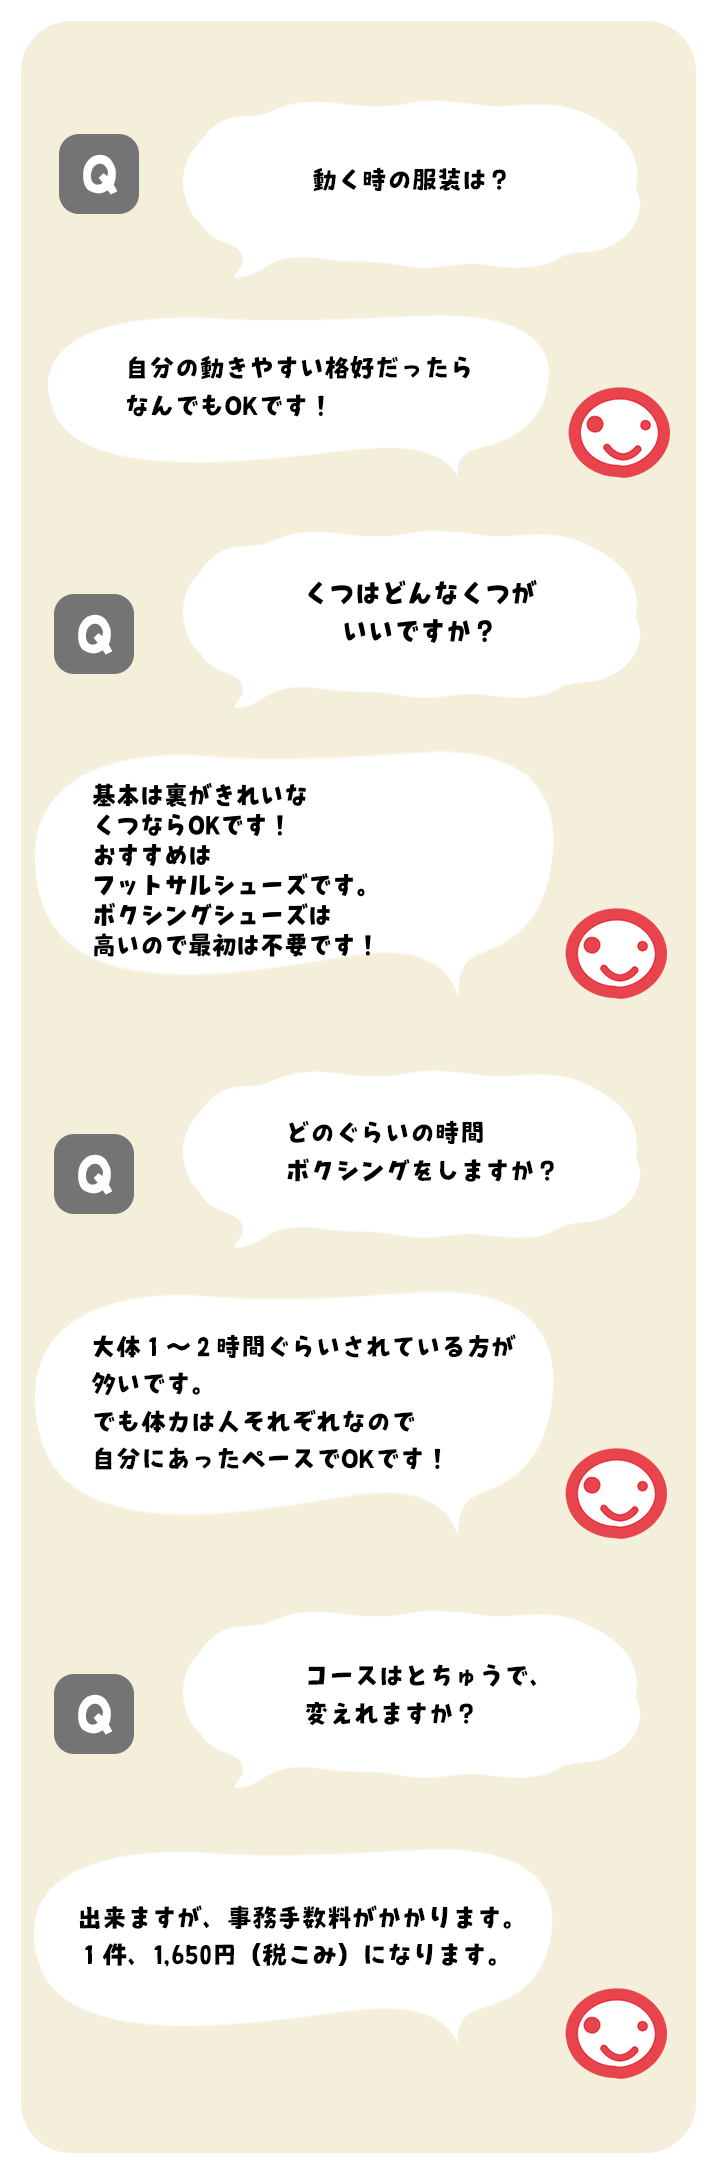
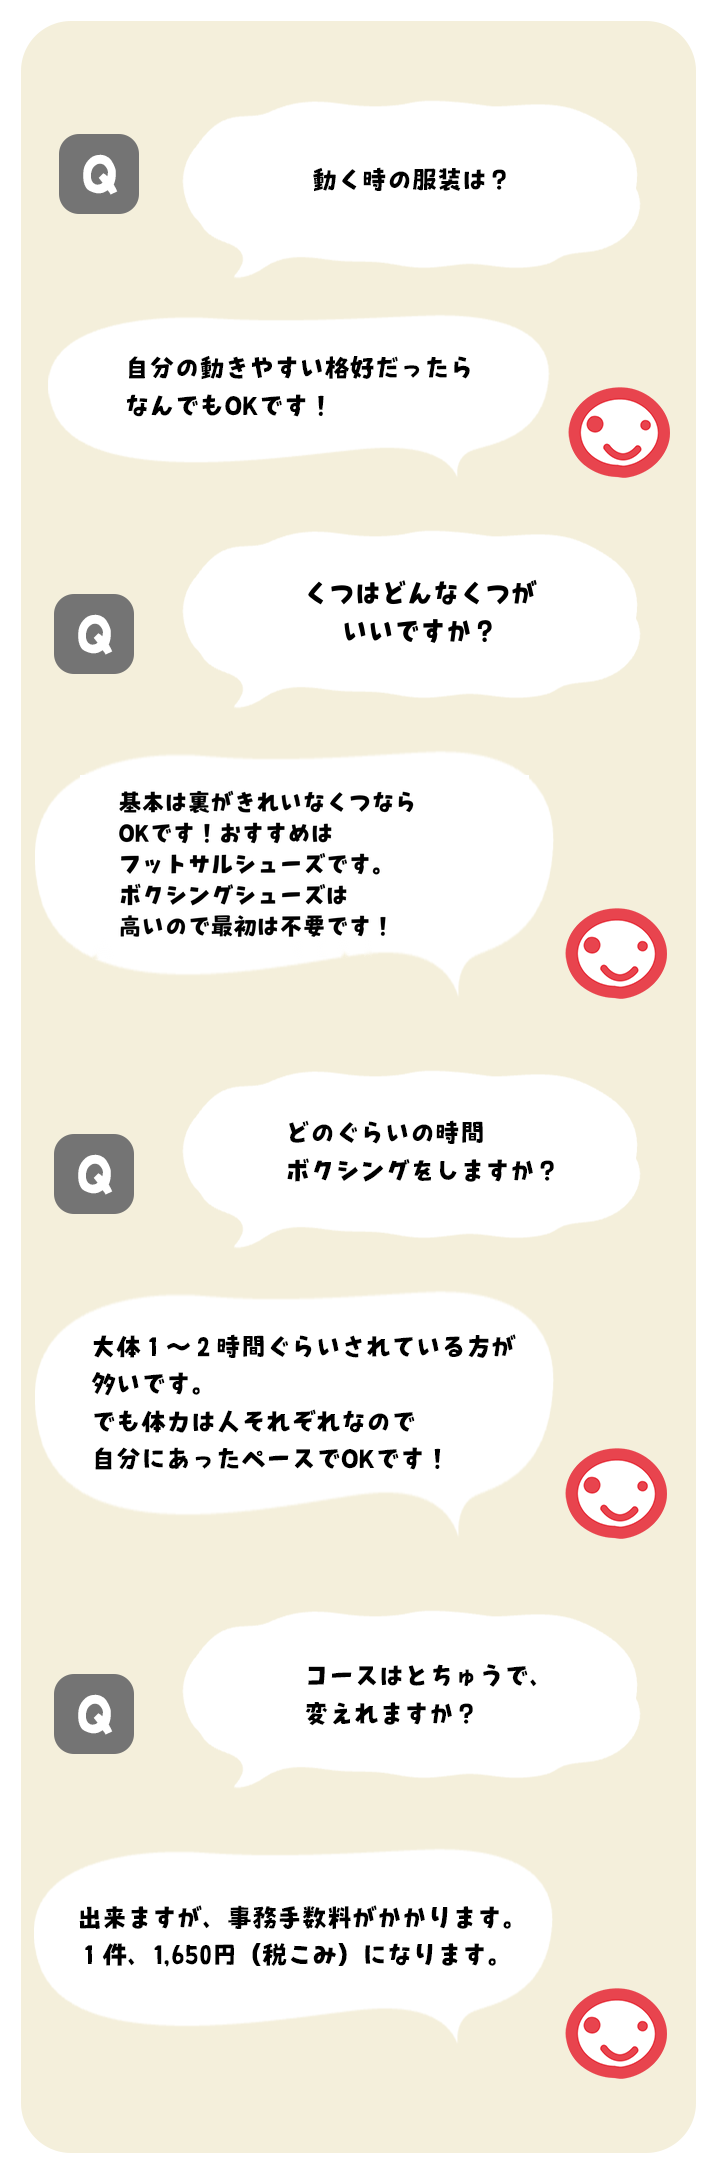
HP修正: パーソナルボクシングバナーをさくら送信対象に追加、Q&A靴の吹き出し文字を枠内に、代表名のフォントと改行を修正
Claude-Session: https://claude.ai/code/session_01Xgjik31oJ5VSBUYrVYWqZ2

Changed region(s): [[0.1227, 0.339, 0.5216, 0.4623]]

diff --git a/index.html b/index.html
@@ -84,6 +84,7 @@
 .hero-slider .hs-slide img{display:block;width:100%;height:100%;object-fit:cover}
 </style>
 <style>
+@font-face{font-family:"NameFont";src:url("assets/fonts/MochiyName.woff2?v=20261118") format("woff2");font-display:swap}
 @font-face{font-family:"RiiCookie";src:url("assets/fonts/RiiCookieRt.otf?v=20261117") format("opentype");font-display:swap}
 /* YouTube最新動画 */
 .yt-sec{background:#ff424e;padding:44px 0 48px;margin-top:0;font-family:"RiiCookie","Noto Sans JP",sans-serif}
@@ -98,7 +99,7 @@
 .yt-btn.o{background:#fff;color:#ff424e;border:3px solid #ff424e;padding:10px 0}
 /* 代表の想い */
 .msg-sec{background:#f4efdb;padding:44px 0 48px;font-family:"RiiCookie","Noto Sans JP",sans-serif;color:#555}
-.msg-sec .nt{font-family:"Noto Sans JP",sans-serif;font-weight:700}
+.msg-sec .nt{font-family:"NameFont","RiiCookie",sans-serif;font-weight:400}
 .msg-sec h2{font-size:3.4rem;color:#ff424e;font-weight:400;letter-spacing:2px;margin:0 0 4px}
 .msg-sec .en{font-size:1.4rem;color:#5ad0e8;letter-spacing:3px;margin-bottom:18px}
 .msg-photo{width:64%;max-width:280px;margin:0 auto 10px;padding:8px;border:5px dotted #5ad0e8;border-radius:34px;background:#fff;box-sizing:border-box}
@@ -196,7 +197,7 @@
 <section class="msg-sec" id="message">
 <h2>代表の想い</h2><div class="en">MESSAGE</div>
 <div class="msg-photo"><img src="assets/pic/TOP/daihyo.jpg" alt="ワンバランスボクシングジム代表 長尾儀弘"></div>
-<div class="msg-name">ワンバランスボクシングジム 代表　<span class="nt">長尾 儀弘</span></div>
+<div class="msg-name">ワンバランスボクシングジム<br>代表　<span class="nt">長尾 儀弘</span></div>
 <div class="msg-rinen"><span class="msg-tag">理念</span>
 <div class="msg-rb"><b>心と体を元気に。</b><br><i>カッコよく素敵に。</i></div>
 <div class="msg-ex">
@@ -208,7 +209,7 @@
 <div class="msg-card"><span class="msg-tag">MISSION</span><div class="msg-t">ボクシング革命</div><div class="msg-p">「ボクシングは、きつい・つらい」を「楽しい」に変える。ボクシングの常識を変えていきます。</div></div>
 <div class="msg-end">選手を育てるジムではありません。<br>「ボクシングやってみたかった」を、みんなが気軽にできる場所。<br>その第一歩を、いつでも待っています。<span class="s">代表　<span class="nt">長尾 儀弘</span></span></div>
 </section>
-<section  id="top-qa"  class="top-qa"> <img src="assets/pic/TOP/q&a.png" alt="よくある質問"> <img src="assets/pic/TOP/q&a-long.png?v=20261118" alt="Q 動く時の服装は？ A 自分の動きやすい格好だったらなんでもOKです！ Q くつはどんなくつがいいですか？ A 基本は裏がきれいなくつならOKです！おすすめはフットサルシューズです。ボクシングシューズは高いので最初は不要です！ Q どのぐらいの時間ボクシングをしますか？ A 大体1〜2時間ぐらいされている方が多いです。でも体力は人それぞれなので自分にあったペースでOKです！ Q コースはとちゅうで変えれますか？ A 出来ますが、事務手数料がかかります。1件、1,650円（税こみ）になります。"> </section>
+<section  id="top-qa"  class="top-qa"> <img src="assets/pic/TOP/q&a.png" alt="よくある質問"> <img src="assets/pic/TOP/q&a-long.png?v=20261118b" alt="Q 動く時の服装は？ A 自分の動きやすい格好だったらなんでもOKです！ Q くつはどんなくつがいいですか？ A 基本は裏がきれいなくつならOKです！おすすめはフットサルシューズです。ボクシングシューズは高いので最初は不要です！ Q どのぐらいの時間ボクシングをしますか？ A 大体1〜2時間ぐらいされている方が多いです。でも体力は人それぞれなので自分にあったペースでOKです！ Q コースはとちゅうで変えれますか？ A 出来ますが、事務手数料がかかります。1件、1,650円（税こみ）になります。"> </section>
 <section id="top-contact"> <a href="tel:0859495275"><img class="tel" src="assets/pic/TOP/tel.png" alt="電話番号 0859-49-5275"></a> <img class="address" src="assets/pic/TOP/address.png" alt="住所 〒683-0006 鳥取県米子市車尾6丁目8-59"> <img class="business-hours" src="assets/pic/TOP/business-hours.png" alt="営業時間 月〜金 16:00-22:00 土 16:00-20:00 日・祝 定休日 ※最終受付はCLOSEの30分前までにお願いします。"> <a class="navi-link" href="https://www.google.com/maps/dir/?api=1&amp;destination=%E3%83%AF%E3%83%B3%E3%83%90%E3%83%A9%E3%83%B3%E3%82%B9%E3%83%9C%E3%82%AF%E3%82%B7%E3%83%B3%E3%82%B0%E3%82%B8%E3%83%A0+%E9%B3%A5%E5%8F%96%E7%9C%8C%E7%B1%B3%E5%AD%90%E5%B8%82%E8%BB%8A%E5%B0%BE6%E4%B8%81%E7%9B%AE8-59&amp;travelmode=driving" target="_blank" rel="noopener"><img src="assets/pic/TOP/navi-button.png" alt="Googleマップでナビ開始（ワンバランスボクシングジムまで車で道案内）"></a> <img  src="assets/pic/TOP/map.png" alt="アクセス地図（日野川の土手沿い・旧日野橋の近く）"> <img class="parking" src="assets/pic/TOP/parking.png" alt="駐車場の案内（施設正面から見て右側が入口）"> </section>
 <fotter>
   <div class="fotter-box1"> <img class="fotter" src="assets/pic/TOP/fotter.png" alt="">
